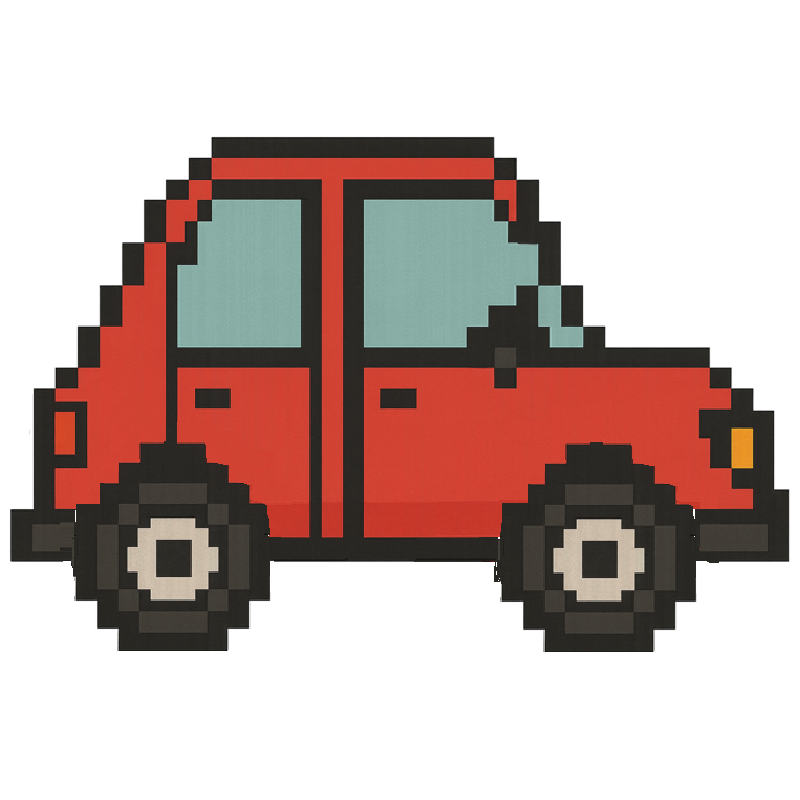
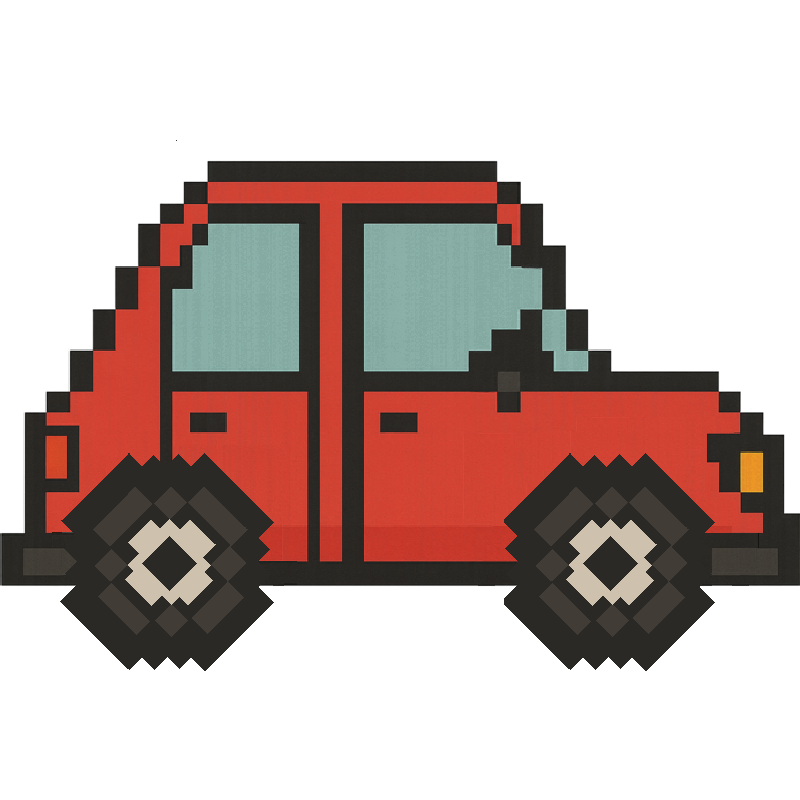
車のアニメーションでタイヤを動くようにした

diff --git a/DxLib_TGS2025/Src/Object/car.cpp b/DxLib_TGS2025/Src/Object/car.cpp
@@ -31,6 +31,7 @@ void CarBoomDraw(int carx, int cary);
 
 Car car;
 GameOver gameover;
+CarAnimation car_anim[5];
 void CarInit(void)
 {
 
@@ -44,6 +45,7 @@ void CarInit(void)
 	car.direction = eRight;//進行方向
 	car.road_count = 0;//取得する道のカウント
 	car.next_count = 0;//取得した道の配列番号
+	car.img_idx = 0;
 
 	car.animation_count = 0;
 	car.goal_flag = false;//ゴールまで道がつながっているかどうか
@@ -85,7 +87,7 @@ void CarInit(void)
 	
 	//ステージ番号と車の初期位置を取得
 	GetCarStageNum(GetInGame());
-	car.animation = car.image[0];
+	car.animation = car_anim[eRight].img[0];
 
 	//次の目的地の初期化
 	for (int i = 0; i < 84; i++)
@@ -97,14 +99,22 @@ void CarInit(void)
 
 void CarResourceInit(void)
 {
-	car.image[0] = LoadGraph("Resource/images/car2_right.png");
-	car.image[1] = LoadGraph("Resource/images/car2_left.png");
-	car.image[2] = LoadGraph("Resource/images/car2_up.png");
-	car.image[3] = LoadGraph("Resource/images/car2_down.png");
-	car.move_image[0]= LoadGraph("Resource/images/car2_right2.png");
-	car.move_image[1]= LoadGraph("Resource/images/car2_left2.png");
-	car.move_image[2]= LoadGraph("Resource/images/car2_up2.png");
-	car.move_image[3]= LoadGraph("Resource/images/car2_down2.png");
+
+	car_anim[eRight].img[0] = LoadGraph("Resource/images/car2_right.png");
+	car_anim[eRight].img[1] = LoadGraph("Resource/images/car2_right2.png");
+	car_anim[eRight].img[2] = LoadGraph("Resource/images/car2_right3.png");
+	car_anim[eRight].img[3] = LoadGraph("Resource/images/car2_right4.png");
+
+	car_anim[eLeft].img[0] = LoadGraph("Resource/images/car2_left.png");
+	car_anim[eLeft].img[1] = LoadGraph("Resource/images/car2_left2.png");
+	car_anim[eLeft].img[2] = LoadGraph("Resource/images/car2_left3.png");
+	car_anim[eLeft].img[3] = LoadGraph("Resource/images/car2_left4.png");
+
+	car_anim[eUp].img[0] = LoadGraph("Resource/images/car2_up.png");
+	car_anim[eUp].img[1] = LoadGraph("Resource/images/car2_up2.png");
+
+	car_anim[eDown].img[0] = LoadGraph("Resource/images/car2_down.png");
+	car_anim[eDown].img[1] = LoadGraph("Resource/images/car2_down2.png");
 
 	car.cutin_image[0] = LoadGraph("Resource/images/cutin.png");
 	car.cutin_image[1] = LoadGraph("Resource/images/cutin2.png");
@@ -285,7 +295,9 @@ void CarReset(void)
 	car.velocity.y = 0.2f;
 	car.road_count = 0;
 	car.next_count = 0;
+	car.img_idx = 0;// 画像番号
 	car.animation_count = 0;
+
 	car.goal_flag = false;//ゴールまで道がつながっているかどうか
 	overroad = 0;
 	car.start = false;//車の処理フラグ
@@ -295,7 +307,7 @@ void CarReset(void)
 	car.warn_count_max = 40;//警告マークを表示する時間
 	car.warn_num = 0;
 	car.menu_flag == false;//車のメニュー処理フラグ
-	car.animation = car.image[0];
+	car.animation = car_anim[eRight].img[0];
 	car.mitibiki_flag = false;
 	car.overcount.x = 0.0f;
 	car.overcount.y = 0.0f;
@@ -340,11 +352,15 @@ void GetNextDestination(const Tool* tool, int x, int y)
 //車の移動処理
 void CarMovePosition(const CreateStage* stage)
 {
+	//Carアニメーションカウントと画像番号
 	car.animation_count++;
+
 	if (car.animation_count > 60)
 	{
+		car.img_idx = 0;
 		car.animation_count = 0;
 	}
+
 	switch (car.direction)
 	{
 
@@ -387,13 +403,13 @@ void CarMovePosition(const CreateStage* stage)
 			CarDetectPosition(GetStage());
 
 		}
-		else if (car.position.y < (car.current_y * CAR_TROUT_LNEGTH) + 120.0f + car.warn_range*0.3&&
+		else if (car.position.y < (car.current_y * CAR_TROUT_LNEGTH) + 120.0f + car.warn_range * 0.3 &&
 			car.goal_flag == false)
 		{
 			car.warn_image_flag = true;
 			car.warn_num = 1;
 		}
-		else if (car.position.y < (car.current_y * CAR_TROUT_LNEGTH) + 120.0f+  car.warn_range &&
+		else if (car.position.y < (car.current_y * CAR_TROUT_LNEGTH) + 120.0f + car.warn_range &&
 			car.goal_flag == false)
 		{
 			car.warn_image_flag = true;
@@ -416,13 +432,13 @@ void CarMovePosition(const CreateStage* stage)
 			CarDetectPosition(GetStage());
 
 		}
-		else if (car.position.y > (car.current_y * CAR_TROUT_LNEGTH) + 120.0f - car.warn_range*0.3 &&
+		else if (car.position.y > (car.current_y * CAR_TROUT_LNEGTH) + 120.0f - car.warn_range * 0.3 &&
 			car.goal_flag == false)
 		{
 			car.warn_image_flag = true;
 			car.warn_num = 1;
 		}
-		else if (car.position.y > (car.current_y * CAR_TROUT_LNEGTH) + 120.0f- car.warn_range &&
+		else if (car.position.y > (car.current_y * CAR_TROUT_LNEGTH) + 120.0f - car.warn_range &&
 			car.goal_flag == false)
 		{
 			car.warn_image_flag = true;
@@ -430,15 +446,10 @@ void CarMovePosition(const CreateStage* stage)
 		}
 		break;
 	case eRight://右に
-		if (car.animation_count < 30)
-		{
-			car.animation = car.image[0];
-		}
-		else
-		{
-			car.animation = car.move_image[0];
-		}
-		
+
+		//carのアニメーション切り替え
+		car.animation = car_anim[eRight].img[car.img_idx];
+
 		car.position.x += car.velocity.x;
 		if (car.position.x > (car.current_x * CAR_TROUT_LNEGTH) + 199.8f)//微調整で200から0.2引いている
 		{
@@ -446,13 +457,13 @@ void CarMovePosition(const CreateStage* stage)
 			CarDetectPosition(GetStage());
 
 		}
-		else if (car.position.x > (car.current_x * CAR_TROUT_LNEGTH) + 200.0f - car.warn_range*0.3&&
+		else if (car.position.x > (car.current_x * CAR_TROUT_LNEGTH) + 200.0f - car.warn_range * 0.3 &&
 			car.goal_flag == false)
 		{
 			car.warn_image_flag = true;
 			car.warn_num = 1;
 		}
-		else if (car.position.x > (car.current_x * CAR_TROUT_LNEGTH) + 200.0f- car.warn_range &&
+		else if (car.position.x > (car.current_x * CAR_TROUT_LNEGTH) + 200.0f - car.warn_range &&
 			car.goal_flag == false)
 		{
 			car.warn_image_flag = true;
@@ -461,14 +472,9 @@ void CarMovePosition(const CreateStage* stage)
 		break;
 
 	case eLeft:
-		if (car.animation_count < 30)
-		{
-			car.animation = car.image[1];
-		}
-		else
-		{
-			car.animation = car.move_image[1];
-		}
+		//carのアニメーション切り替え
+		car.animation = car_anim[eLeft].img[car.img_idx];
+
 		car.position.x -= car.velocity.x;
 		if (car.position.x < (car.current_x * CAR_TROUT_LNEGTH) + 200.2f)//微調整で200から0.2足している
 		{
@@ -476,13 +482,13 @@ void CarMovePosition(const CreateStage* stage)
 			CarDetectPosition(GetStage());
 
 		}
-		else if (car.position.x < (car.current_x * CAR_TROUT_LNEGTH) + 200.0f+ car.warn_range*0.3 &&
+		else if (car.position.x < (car.current_x * CAR_TROUT_LNEGTH) + 200.0f + car.warn_range * 0.3 &&
 			car.goal_flag == false)
 		{
 			car.warn_image_flag = true;
 			car.warn_num = 1;
 		}
-		else if (car.position.x < (car.current_x * CAR_TROUT_LNEGTH) + 200.0f+ car.warn_range &&
+		else if (car.position.x < (car.current_x * CAR_TROUT_LNEGTH) + 200.0f + car.warn_range &&
 			car.goal_flag == false)
 		{
 			car.warn_image_flag = true;
@@ -492,6 +498,12 @@ void CarMovePosition(const CreateStage* stage)
 
 	default:
 		break;
+	}
+
+	//一番下に置いていないとフレーム飛びしてしまう
+	if (car.animation_count != 0 && car.animation_count % 15 == 0)
+	{
+		car.img_idx++;
 	}
 }
 
@@ -722,6 +734,7 @@ void CarGoalCheck(const CreateStage* stage)
 	}
 
 }
+
 void CarWarnSE(void) 
 {
 	if (car.warn_image_flag == true && car.next_x[car.next_count] == -1 && car.next_y[car.next_count] == -1)
@@ -941,7 +954,6 @@ void CarWarnUpdate(const Goal*goal,const GameOver*gameover,const InGame*ingame)
 			 Play_Sound_Car(car.lake_se, 200);
 		 }
 	 }
-
 	 else if (car.lake_flag == false)
 	 {
 		 StopSoundMem(car.lake_se);

diff --git a/DxLib_TGS2025/Src/Scene/StageSelect/StageSelectScene.cpp b/DxLib_TGS2025/Src/Scene/StageSelect/StageSelectScene.cpp
@@ -109,7 +109,8 @@ void StageSelectSceneInit(void)
 
 	//スピードCARの初期化
 	ss_spcar.anim = ss_spcar.img[0];
-	ss_spcar.cnt_max = 30;
+	ss_spcar.sw_cnt = 30;
+	ss_spcar.idx = 0;
 
 	for (int i = 0; i < 5; i++)
 	{
@@ -147,6 +148,8 @@ void StageSelectResourceInit(void)
 		//スピードCARの画像
 		ss_spcar.img[0]= LoadGraph("Resource/images/car2_right.png");
 		ss_spcar.img[1]= LoadGraph("Resource/images/car2_right2.png");
+		ss_spcar.img[2]= LoadGraph("Resource/images/car2_right3.png");
+		ss_spcar.img[3]= LoadGraph("Resource/images/car2_right4.png");
 
 		//マスの画像
 		stg_sel.trout_image[0] = LoadGraph("Resource/images/StageTrout.png");
@@ -607,19 +610,23 @@ void SS_MapMove(void)
 void SS_SpcarAnim(void)
 {
 	ss_spcar.cnt++;
+	
+	//スピードCARの画像切り替え
+	ss_spcar.anim = ss_spcar.img[ss_spcar.idx];
 
-	//カウントがmax値を越えたら
-	if (ss_spcar.cnt > ss_spcar.cnt_max)
+	//カウントが0じゃなければsw_cnt(sw → switch)経つたびに画像を切り替える
+	if (ss_spcar.cnt != 0 && ss_spcar.cnt % ss_spcar.sw_cnt == 0 
+		&& ss_spcar.idx < 4)
 	{
-		//0なら1に、1なら0に
-		if (ss_spcar.anim == ss_spcar.img[0])
-		{
-			ss_spcar.anim = ss_spcar.img[1];
-		}
-		else if (ss_spcar.anim == ss_spcar.img[1])
-		{
-			ss_spcar.anim = ss_spcar.img[0];
-		}
+		ss_spcar.idx++;
+	}
+
+	//画像が4枚だから sw_cnt*4 をMAXにする
+	int cnt_max = ss_spcar.sw_cnt * 4;
+
+	if (ss_spcar.cnt > cnt_max)
+	{
+		ss_spcar.idx = 0;
 		ss_spcar.cnt = 0;
 	}
 	
@@ -627,16 +634,16 @@ void SS_SpcarAnim(void)
 	switch (ss_num.stg_num)
 	{
 	case 0:
-		ss_spcar.cnt_max = 40;
+		ss_spcar.sw_cnt = 20;
 		break;
 	case 1: case 2:
-		ss_spcar.cnt_max = 30;
+		ss_spcar.sw_cnt = 15;
 		break;
 	case 3: case 4:
-		ss_spcar.cnt_max = 20;
+		ss_spcar.sw_cnt = 10;
 		break;
 	case 5:
-		ss_spcar.cnt_max = 10;
+		ss_spcar.sw_cnt = 5;
 		break;
 	}
 }

diff --git a/DxLib_TGS2025/Src/Object/car.h b/DxLib_TGS2025/Src/Object/car.h
@@ -20,6 +20,7 @@ struct Car
     Vector2D overcount;
     int animation;
     int image[4];
+    int img_idx;
     int move_image[4];
     int animation_count;
 
@@ -90,6 +91,11 @@ struct GameOver
     int image_count;
     bool flag;
     int circle;
+};
+
+struct CarAnimation
+{
+    int img[5];
 };
 
 void CarInit(void);

diff --git a/DxLib_TGS2025/Src/Scene/StageSelect/StageSelectScene.h b/DxLib_TGS2025/Src/Scene/StageSelect/StageSelectScene.h
@@ -47,10 +47,10 @@ struct SS_Star
 //スピードCar
 struct SS_SpeedCar
 {
-	int img[2];
+	int img[4];
 	int anim;
 	int cnt;
-	int cnt_max;
+	int sw_cnt;
 	int idx;
 };
 
